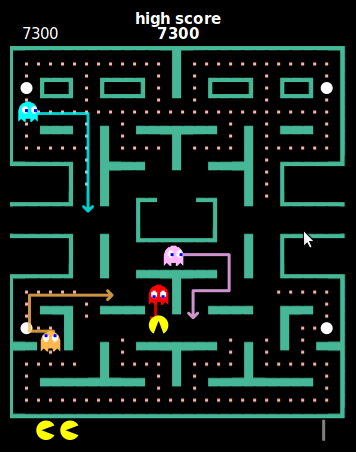
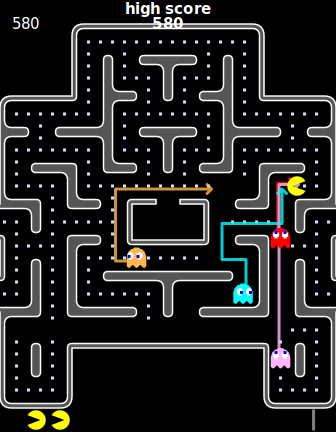
updated screenshots and darkened menu map walls

diff --git a/pacman.js b/pacman.js
@@ -4047,8 +4047,8 @@ var switchMap = function(i) {
             x:14*tileSize+midTile.x, 
             y:-26*tileSize+midTile.y }; // offscreen
     };
-    menuMap.wallFillColor = "#777";
-    menuMap.wallStrokeColor = "#FFF";
+    menuMap.wallFillColor = "#333";
+    menuMap.wallStrokeColor = "#000";
     menuMap.pelletColor = "#FFF";
 
     // create list of maps

diff --git a/src/maps.js b/src/maps.js
@@ -592,8 +592,8 @@ var switchMap = function(i) {
             x:14*tileSize+midTile.x, 
             y:-26*tileSize+midTile.y }; // offscreen
     };
-    menuMap.wallFillColor = "#777";
-    menuMap.wallStrokeColor = "#FFF";
+    menuMap.wallFillColor = "#333";
+    menuMap.wallStrokeColor = "#000";
     menuMap.pelletColor = "#FFF";
 
     // create list of maps

diff --git a/debug.htm b/debug.htm
@@ -31,5 +31,5 @@
     <a href="http://github.com/shaunew/Pac-Man">Source Code</a> |
     <a href="http://home.comcast.net/~jpittman2/pacman/pacmandossier.html">The Pac-Man Dossier</a>
 </div>
-<div id="date">last updated: Sat Apr 21 12:05:52 CDT 2012</div>
+<div id="date">last updated: Sun Apr 22 02:09:07 CDT 2012</div>
 </body>

diff --git a/index.htm b/index.htm
@@ -10,5 +10,5 @@
     <a href="http://github.com/shaunew/Pac-Man">Source Code</a> |
     <a href="http://home.comcast.net/~jpittman2/pacman/pacmandossier.html">The Pac-Man Dossier</a>
 </div>
-<div id="date">last updated: Sat Apr 21 12:05:52 CDT 2012</div>
+<div id="date">last updated: Sun Apr 22 02:09:07 CDT 2012</div>
 </body>
